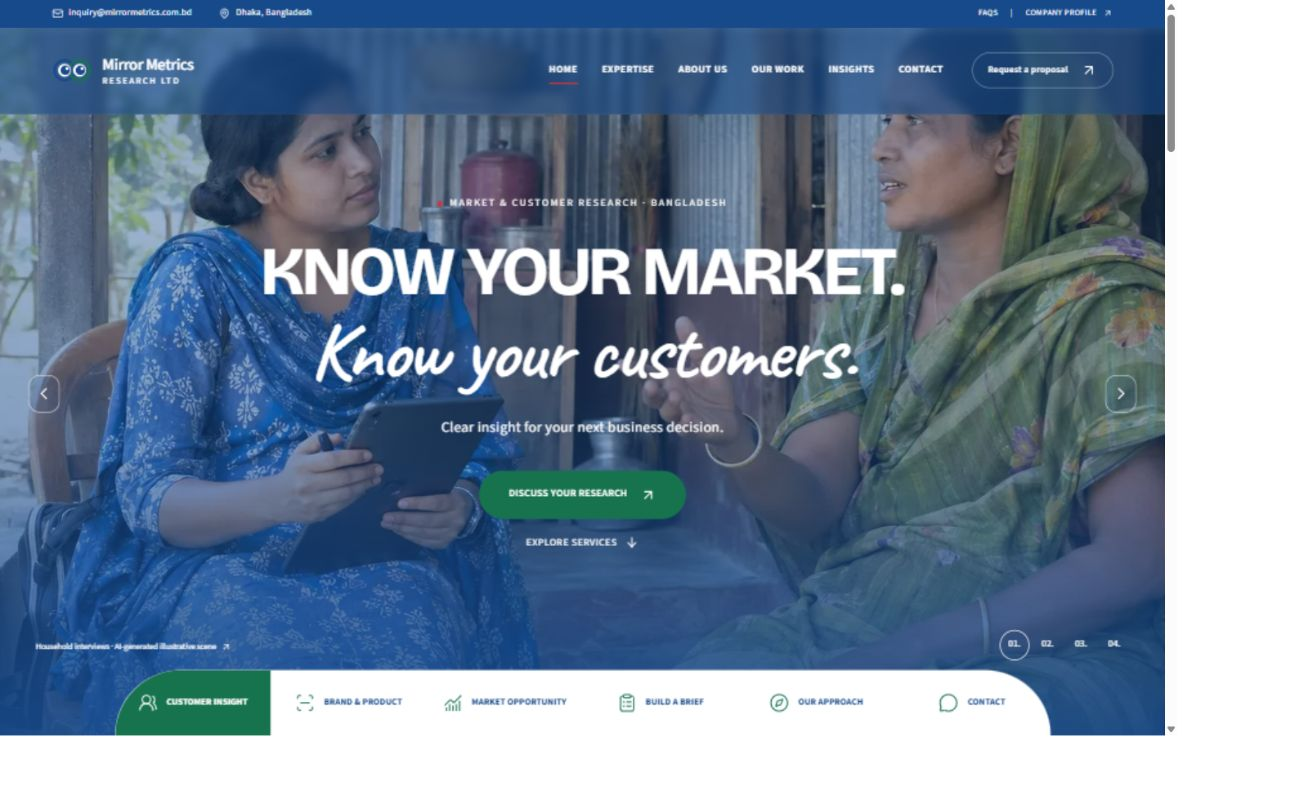
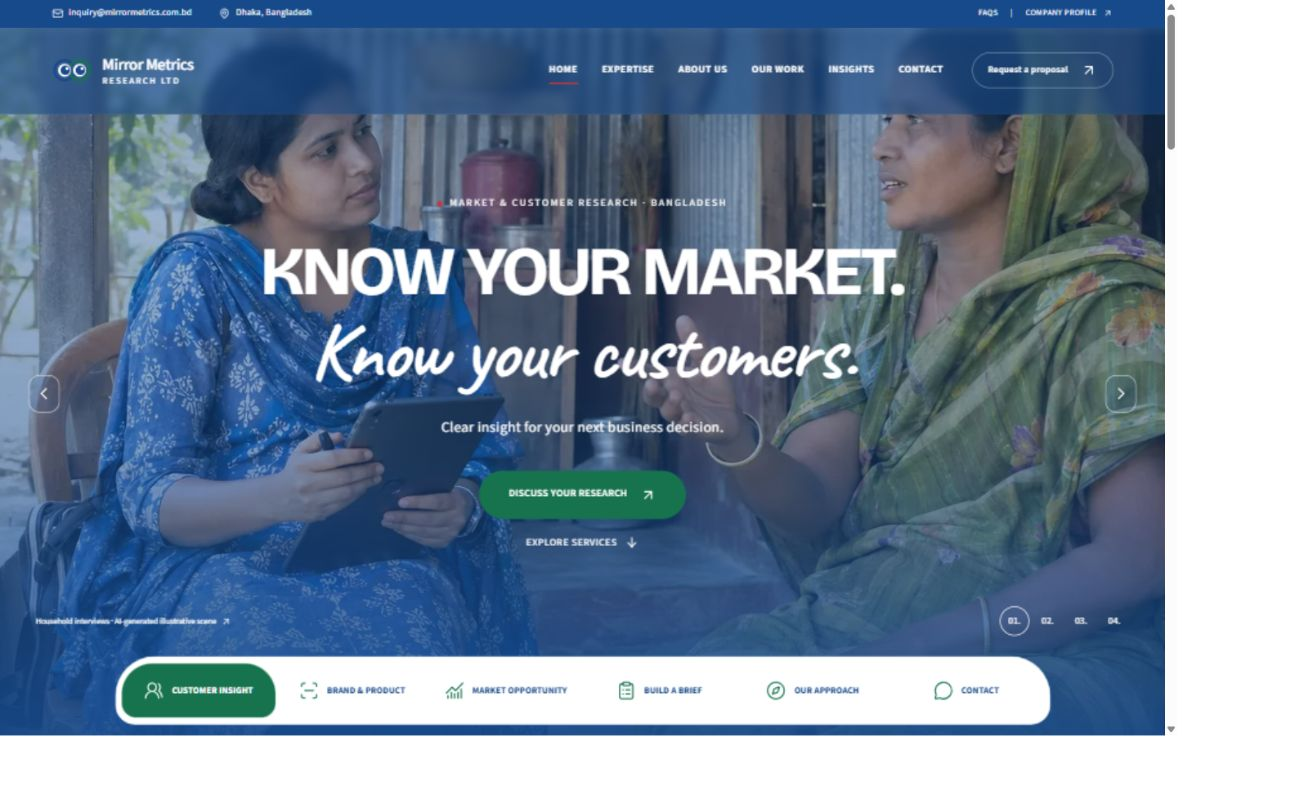
Keep research shortcuts fixed with animated click feedback

diff --git a/src/app/research-dock.css b/src/app/research-dock.css
@@ -1,0 +1,93 @@
+:root { --research-dock-height: 76px; }
+html { scroll-padding-bottom: calc(var(--research-dock-height) + 36px + env(safe-area-inset-bottom)); }
+.site-footer { padding-bottom: calc(var(--research-dock-height) + 48px + env(safe-area-inset-bottom)); }
+
+/* Kept outside the hero's clipped and animated layers so it stays on screen. */
+.research-dock {
+  position: fixed;
+  z-index: 50;
+  inset: auto 0 calc(12px + env(safe-area-inset-bottom));
+  margin-inline: auto;
+  width: min(1040px, calc(100% - 48px));
+  min-height: var(--research-dock-height);
+  display: grid;
+  grid-template-columns: repeat(6, minmax(0, 1fr));
+  padding: 7px;
+  background: var(--ui-white);
+  border: 1px solid var(--line);
+  border-radius: 44px 44px 22px 22px;
+  box-shadow: 0 12px 44px #174a8b33, 0 2px 8px #174a8b1a;
+  animation: research-dock-arrive 600ms 100ms cubic-bezier(.2,.8,.2,1) backwards;
+}
+.research-dock-selection {
+  position: absolute;
+  inset: 7px auto 7px 7px;
+  width: calc((100% - 14px) / 6);
+  background: var(--ui-green);
+  border-radius: 34px 34px 16px 16px;
+  transform: translateX(calc(var(--dock-active) * 100%));
+  transition: transform 420ms cubic-bezier(.22,1,.36,1);
+  pointer-events: none;
+}
+.research-dock-link {
+  position: relative;
+  display: flex;
+  align-items: center;
+  justify-content: center;
+  gap: 9px;
+  min-width: 0;
+  min-height: 60px;
+  padding: 12px 8px;
+  border-radius: 34px 34px 16px 16px;
+  overflow: hidden;
+  color: var(--ui-blue);
+  font-size: 10px;
+  font-weight: 700;
+  line-height: 1.3;
+  letter-spacing: .015em;
+  text-transform: uppercase;
+  transition: color 200ms, background-color 200ms;
+}
+.research-dock-link.is-selected { color: var(--ui-white); }
+.research-dock-icon { display: inline-flex; flex-shrink: 0; color: var(--ui-green); transition: transform 250ms cubic-bezier(.2,.8,.2,1), color 200ms; }
+.research-dock-link.is-selected .research-dock-icon { color: var(--ui-white); }
+.research-dock-icon.is-clicked { animation: research-dock-pop 480ms cubic-bezier(.2,.8,.2,1); }
+.research-dock-mobile-label { display: none; }
+.research-dock-link:focus-visible { outline: 3px solid var(--ui-red); outline-offset: -4px; }
+.research-dock-link:active { scale: .97; }
+.research-dock-ripple {
+  position: absolute;
+  width: 20px;
+  height: 20px;
+  border-radius: 50%;
+  background: currentColor;
+  pointer-events: none;
+  animation: research-dock-ripple 650ms ease-out forwards;
+}
+.photo-hero .photo-hero-caption { bottom: 120px; }
+.hero-scene-selector { bottom: 112px; }
+@media (hover: hover) and (pointer: fine) {
+  .research-dock-link:hover:not(.is-selected) { background: #174a8b0d; }
+  .research-dock-link:hover .research-dock-icon { transform: translateY(-3px) rotate(-6deg) scale(1.1); }
+}
+@keyframes research-dock-arrive { from { opacity: 0; translate: 0 100%; } to { opacity: 1; translate: 0 0; } }
+@keyframes research-dock-pop { 0%, 100% { transform: scale(1); } 40% { transform: translateY(-5px) scale(1.2); } 70% { transform: translateY(1px) scale(.95); } }
+@keyframes research-dock-ripple { from { opacity: .32; transform: translate(-50%, -50%) scale(0); } to { opacity: 0; transform: translate(-50%, -50%) scale(18); } }
+@media (max-width: 1023px) {
+  .research-dock-link { flex-direction: column; gap: 5px; font-size: 9px; padding-inline: 5px; }
+}
+@media (max-width: 767px) {
+  :root { --research-dock-height: 70px; }
+  .research-dock { width: calc(100% - 16px); padding: 5px; bottom: calc(8px + env(safe-area-inset-bottom)); border-radius: 26px 26px 18px 18px; }
+  .research-dock-selection { inset: 5px auto 5px 5px; width: calc((100% - 10px) / 6); border-radius: 22px 22px 14px 14px; }
+  .research-dock-link { min-height: 58px; padding: 10px 2px; font-size: 8px; letter-spacing: 0; border-radius: 22px 22px 14px 14px; }
+  .research-dock-icon svg { width: 21px; height: 21px; }
+  .research-dock-label { display: none; }
+  .research-dock-mobile-label { display: inline; }
+}
+@media (prefers-reduced-motion: reduce) {
+  .research-dock, .research-dock-icon.is-clicked { animation: none; }
+  .research-dock-selection, .research-dock-link, .research-dock-icon { transition: none; }
+  .research-dock-ripple { display: none; }
+  .research-dock-link:hover .research-dock-icon, .research-dock-link:active { transform: none; scale: 1; }
+}

diff --git a/src/app/travel-inspired.css b/src/app/travel-inspired.css
@@ -90,14 +90,6 @@ dialog::backdrop { background: #174a8ba8; backdrop-filter: blur(5px); }
 .hero-scene-selector { position: absolute; bottom: 85px; right: 40px; display: flex; gap: 4px; }
 .hero-scene-selector button { width: 33px; height: 33px; border-radius: 50%; border: 1px solid transparent; color: #ffffff; font-size: 11px; background: transparent; }
 .hero-scene-selector button[aria-pressed="true"] { border-color: #ffffff; color: #ffffff; }
-.hero-shortcuts { position: absolute; inset: auto 0 0; margin-inline: auto; display: grid; grid-template-columns: repeat(6, minmax(0, 1fr)); width: min(1040px, calc(100% - 160px)); background: #ffffff; border-radius: 80px 80px 0 0; overflow: hidden; }
-.hero-shortcuts a { display: flex; justify-content: center; align-items: center; gap: 10px; min-height: 74px; padding: 16px 10px; color: #174a8b; font-size: 10px; font-weight: 700; text-transform: uppercase; letter-spacing: .015em; transition: background .2s, color .2s; }
-.hero-shortcuts a svg { color: var(--ui-green); flex-shrink: 0; }
-.hero-shortcuts a:first-child { background: var(--ui-green); color: #ffffff; }
-.hero-shortcuts a:first-child svg { color: #ffffff; }
-.hero-shortcuts a:hover { background: #174a8b; color: #ffffff; }
-.hero-shortcuts a:hover svg { color: #ffffff; }
-.hero-shortcuts a:focus-visible { outline-offset: -5px; outline-color: #174a8b; }
 .photo-hero :is(a,button):focus-visible, .is-home .site-header:not(.is-scrolled) :is(a,button):focus-visible { outline-color: #174a8b33; }
 @keyframes hero-photo-appear { from { opacity: .3; } to { opacity: 1; } }
 
@@ -171,8 +163,6 @@ dialog::backdrop { background: #174a8ba8; backdrop-filter: blur(5px); }
   .header-layout { gap: 20px; }
   .desktop-nav { gap: 18px; }
   .site-shell .header-cta { padding-inline: 13px; }
-  .hero-shortcuts { width: calc(100% - 100px); }
-  .hero-shortcuts a { gap: 7px; font-size: 9px; }
 }
 @media (max-width: 1023px) {
   .header-layout { height: 82px; }
@@ -180,8 +170,6 @@ dialog::backdrop { background: #174a8ba8; backdrop-filter: blur(5px); }
   .site-shell .header-cta { display: inline-flex; }
   .menu-toggle { color: var(--ink); }
   .photo-hero .hero-copy h1 { font-size: clamp(44px, 7vw, 70px); }
-  .hero-shortcuts { width: calc(100% - 48px); border-radius: 45px 45px 0 0; }
-  .hero-shortcuts a { flex-direction: column; gap: 8px; min-height: 88px; text-align: center; padding-inline: 8px; }
   .photo-hero .photo-hero-caption { bottom: 110px; left: 24px; }
   .hero-scene-selector { bottom: 105px; right: 24px; }
   .hero-scene-previous { left: 18px; }
@@ -213,9 +201,6 @@ dialog::backdrop { background: #174a8ba8; backdrop-filter: blur(5px); }
   .hero-scene-next { right: 20px; }
   .hero-scene-selector { bottom: 199px; left: 50%; right: auto; transform: translateX(-50%); }
   .photo-hero .photo-hero-caption { bottom: 154px; left: 20px; max-width: calc(100% - 40px); font-size: 8px; text-align: center; width: calc(100% - 40px); justify-content: center; }
-  .hero-shortcuts { width: calc(100% - 28px); grid-template-columns: repeat(3, minmax(0, 1fr)); border-radius: 35px 35px 0 0; }
-  .hero-shortcuts a { min-height: 69px; padding: 11px 5px; gap: 5px; font-size: 8px; border-bottom: 1px solid #174a8b33; }
-  .hero-shortcuts a svg { width: 19px; height: 19px; }
   .section-space, .is-home .market-services.section-space, .is-home .bangladesh-research.section-space { padding-block: 58px; }
   .market-section-heading { align-items: start; gap: 20px; margin-bottom: 28px; }
   .market-section-heading h2 { font-size: 31px; }

diff --git a/src/components/ResearchDock.tsx b/src/components/ResearchDock.tsx
@@ -1,0 +1,40 @@
+"use client";
+
+import Link from "next/link";
+import { usePathname } from "next/navigation";
+import { useState, type CSSProperties, type MouseEvent } from "react";
+import { UsersRound, ScanLine, ChartNoAxesCombined, ClipboardList, Compass, MessageCircle } from "lucide-react";
+
+const shortcuts = [
+  { label: "Customer insight", mobileLabel: "Customers", Icon: UsersRound, href: "/services/market-research#research-questions" },
+  { label: "Brand & product", mobileLabel: "Brand", Icon: ScanLine, href: "/services/market-research#research-questions" },
+  { label: "Market opportunity", mobileLabel: "Markets", Icon: ChartNoAxesCombined, href: "/services/market-research#research-questions" },
+  { label: "Build a brief", mobileLabel: "Brief", Icon: ClipboardList, href: "/#research-planner" },
+  { label: "Our approach", mobileLabel: "Approach", Icon: Compass, href: "/about" },
+  { label: "Contact", mobileLabel: "Contact", Icon: MessageCircle, href: "/contact" },
+];
+
+export default function ResearchDock() {
+  const pathname = usePathname();
+  const [selection, setSelection] = useState({ index: 0, path: "/" });
+  const [click, setClick] = useState<{ index: number; key: number; x: number; y: number } | null>(null);
+  const active = pathname === selection.path ? selection.index : pathname.startsWith("/about") ? 4 : pathname.startsWith("/contact") ? 5 : 0;
+
+  function onClick(event: MouseEvent<HTMLAnchorElement>, index: number, href: string) {
+    // Modified clicks retain normal browser behavior without changing this page.
+    if (event.metaKey || event.ctrlKey || event.shiftKey || event.altKey) return;
+    const box = event.currentTarget.getBoundingClientRect();
+    const keyboard = event.detail === 0;
+    setClick(window.matchMedia("(prefers-reduced-motion: reduce)").matches ? null : { index, key: Date.now(), x: keyboard ? box.width / 2 : event.clientX - box.left, y: keyboard ? box.height / 2 : event.clientY - box.top });
+    setSelection({ index, path: href.split("#")[0] });
+  }
+
+  return <nav className="research-dock" aria-label="Research shortcuts" style={{ "--dock-active": active } as CSSProperties}>
+    <span className="research-dock-selection" aria-hidden="true" />
+    {shortcuts.map(({ label, mobileLabel, Icon, href }, index) => <Link href={href} key={label} className={`research-dock-link${active === index ? " is-selected" : ""}`} aria-label={label} aria-current={pathname === href ? "page" : undefined} onClick={event => onClick(event, index, href)}>
+      <span key={click?.index === index ? `icon-${click.key}` : "idle"} className={`research-dock-icon${click?.index === index ? " is-clicked" : ""}`}><Icon size={22} strokeWidth={1.6} /></span>
+      <span className="research-dock-label">{label}</span><span className="research-dock-mobile-label" aria-hidden="true">{mobileLabel}</span>
+      {click?.index === index && <span key={`ripple-${click.key}`} className="research-dock-ripple" aria-hidden="true" style={{ left: click.x, top: click.y }} onAnimationEnd={() => setClick(null)} />}
+    </Link>)}
+  </nav>;
+}

diff --git a/src/components/Hero.tsx b/src/components/Hero.tsx
@@ -2,20 +2,12 @@
 
 import Link from "next/link";
 import { useState } from "react";
-import { ArrowDown, ArrowUpRight, ChevronLeft, ChevronRight, UsersRound, ScanLine, ChartNoAxesCombined, ClipboardList, Compass, MessageCircle } from "lucide-react";
+import { ArrowDown, ArrowUpRight, ChevronLeft, ChevronRight } from "lucide-react";
 import { PHOTOS, type PhotoKey } from "@/data/photography";
 import { HOMEPAGE_FIELDWORK_SETTINGS } from "@/data/homepageFieldwork";
 import ScrollPhoto from "./ScrollPhoto";
 
 const scenes: PhotoKey[] = HOMEPAGE_FIELDWORK_SETTINGS.map(setting => setting.photo);
-const shortcuts = [
-  { label: "Customer insight", Icon: UsersRound, href: "/services/market-research#research-questions" },
-  { label: "Brand & product", Icon: ScanLine, href: "/services/market-research#research-questions" },
-  { label: "Market opportunity", Icon: ChartNoAxesCombined, href: "/services/market-research#research-questions" },
-  { label: "Build a brief", Icon: ClipboardList, href: "#research-planner" },
-  { label: "Our approach", Icon: Compass, href: "/about" },
-  { label: "Contact", Icon: MessageCircle, href: "/contact" },
-];
 
 export default function Hero({ onOpenProposalModal }: { onOpenProposalModal: () => void }) {
   const [scene, setScene] = useState(0);
@@ -36,6 +28,5 @@ export default function Hero({ onOpenProposalModal }: { onOpenProposalModal: () 
     <button type="button" className="hero-scene-arrow hero-scene-next" onClick={() => changeScene(1)} aria-label="Next background photo"><ChevronRight size={21} /></button>
     <div className="site-container photo-hero-caption"><Link href="/photography#illustrative-fieldwork">{photo.title} · AI-generated illustrative scene <ArrowUpRight size={12} /></Link></div>
     <div className="hero-scene-selector" aria-label="Background photos">{scenes.map((key, index) => <button key={key} type="button" aria-label={`Show ${PHOTOS[key].title}`} aria-pressed={scene === index} onClick={() => setScene(index)}>{String(index + 1).padStart(2, "0")}<span>.</span></button>)}</div>
-    <nav className="hero-shortcuts" aria-label="Research shortcuts">{shortcuts.map(({ label, Icon, href }) => <Link key={label} href={href}><Icon size={22} strokeWidth={1.5} /><span>{label}</span></Link>)}</nav>
   </section>;
 }

diff --git a/src/components/SiteShell.tsx b/src/components/SiteShell.tsx
@@ -7,6 +7,7 @@ import ProposalModal from "./ProposalModal";
 import { ArrowUpRight } from "lucide-react";
 import { usePathname } from "next/navigation";
 import PhotoMotion from "./PhotoMotion";
+import ResearchDock from "./ResearchDock";
 
 const ProposalContext = createContext<() => void>(() => {});
 export const useProposal = () => useContext(ProposalContext);
@@ -19,5 +20,5 @@ export function ProposalButton({ children = "Discuss your research", className =
 export default function SiteShell({ children }: { children: ReactNode }) {
   const [proposalOpen, setProposalOpen] = useState(false);
   const pathname = usePathname();
-  return <ProposalContext.Provider value={() => setProposalOpen(true)}><PhotoMotion /><div className={`site-shell${pathname === "/" ? " is-home" : ""}`}><Header onOpenProposalModal={() => setProposalOpen(true)} /><main id="main-content" tabIndex={-1}>{children}</main><Footer /></div><ProposalModal isOpen={proposalOpen} onClose={() => setProposalOpen(false)} /></ProposalContext.Provider>;
+  return <ProposalContext.Provider value={() => setProposalOpen(true)}><PhotoMotion /><div className={`site-shell${pathname === "/" ? " is-home" : ""}`}><Header onOpenProposalModal={() => setProposalOpen(true)} /><main id="main-content" tabIndex={-1}>{children}</main><Footer /></div><ResearchDock /><ProposalModal isOpen={proposalOpen} onClose={() => setProposalOpen(false)} /></ProposalContext.Provider>;
 }

diff --git a/src/app/layout.tsx b/src/app/layout.tsx
@@ -14,6 +14,7 @@ import "./interactions.css";
 import "./home-motion.css";
 import "./travel-inspired.css";
 import "./photo-motion.css";
+import "./research-dock.css";
 
 const displayFont = localFont({ src: "./fonts/bricolage-grotesque-latin.woff2", variable: "--font-display", weight: "400 700", display: "swap", preload: false });
 const bodyFont = localFont({ src: "./fonts/source-sans-3-latin.woff2", variable: "--font-body", weight: "200 900", display: "swap" });

diff --git a/docs/design/research-dock.md b/docs/design/research-dock.md
@@ -1,0 +1,9 @@
+# Fixed research shortcut bar
+
+The six research shortcuts are rendered once in the shared site shell, outside the hero's clipped and animated layers. The bar is fixed near the viewport's bottom edge and remains available while scrolling or following links between pages. The brief-builder shortcut points to `/#research-planner` so it also works from other routes. Existing service, approach, and contact destinations are preserved.
+
+Interaction feedback includes a sliding green selection indicator, icon bounce, click-position ripple, and icon hover movement. Repeated clicks and keyboard activation are supported. Reduced-motion preferences suppress these animations. Blue, white, green, and red remain the only UI base colors.
+
+On mobile, all six shortcuts stay in a compact single row with full accessible names and shortened visible labels. The dock accounts for the device's bottom safe area. Footer padding and scroll padding reserve space so the final page links and anchor destinations remain reachable. Native dialogs appear above the dock.
+
+Verification: production build passed. Browser checks confirmed one fixed dock outside the hero, an approximately 12px desktop / 8px mobile bottom gap after scrolling and navigating, six icons after repeated interactions, working cross-page shortcuts and keyboard activation, and no mobile horizontal overflow or browser errors. Previews: `fixed-dock-preview.jpg`, `fixed-dock-mobile.jpg`, and `redesign-preview.jpg`.
